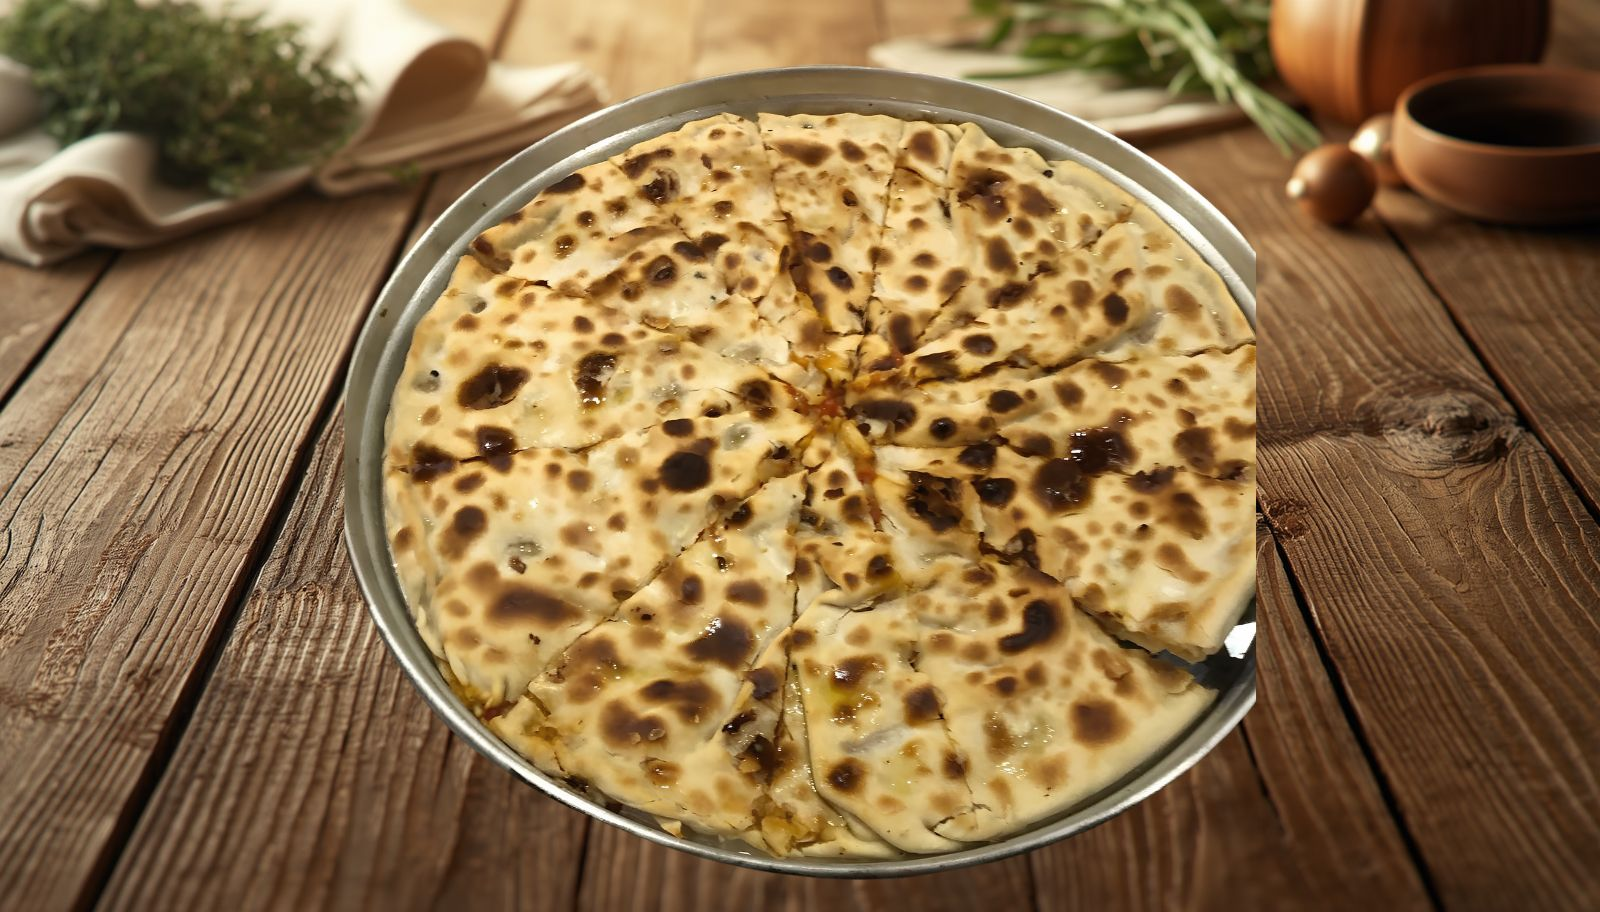
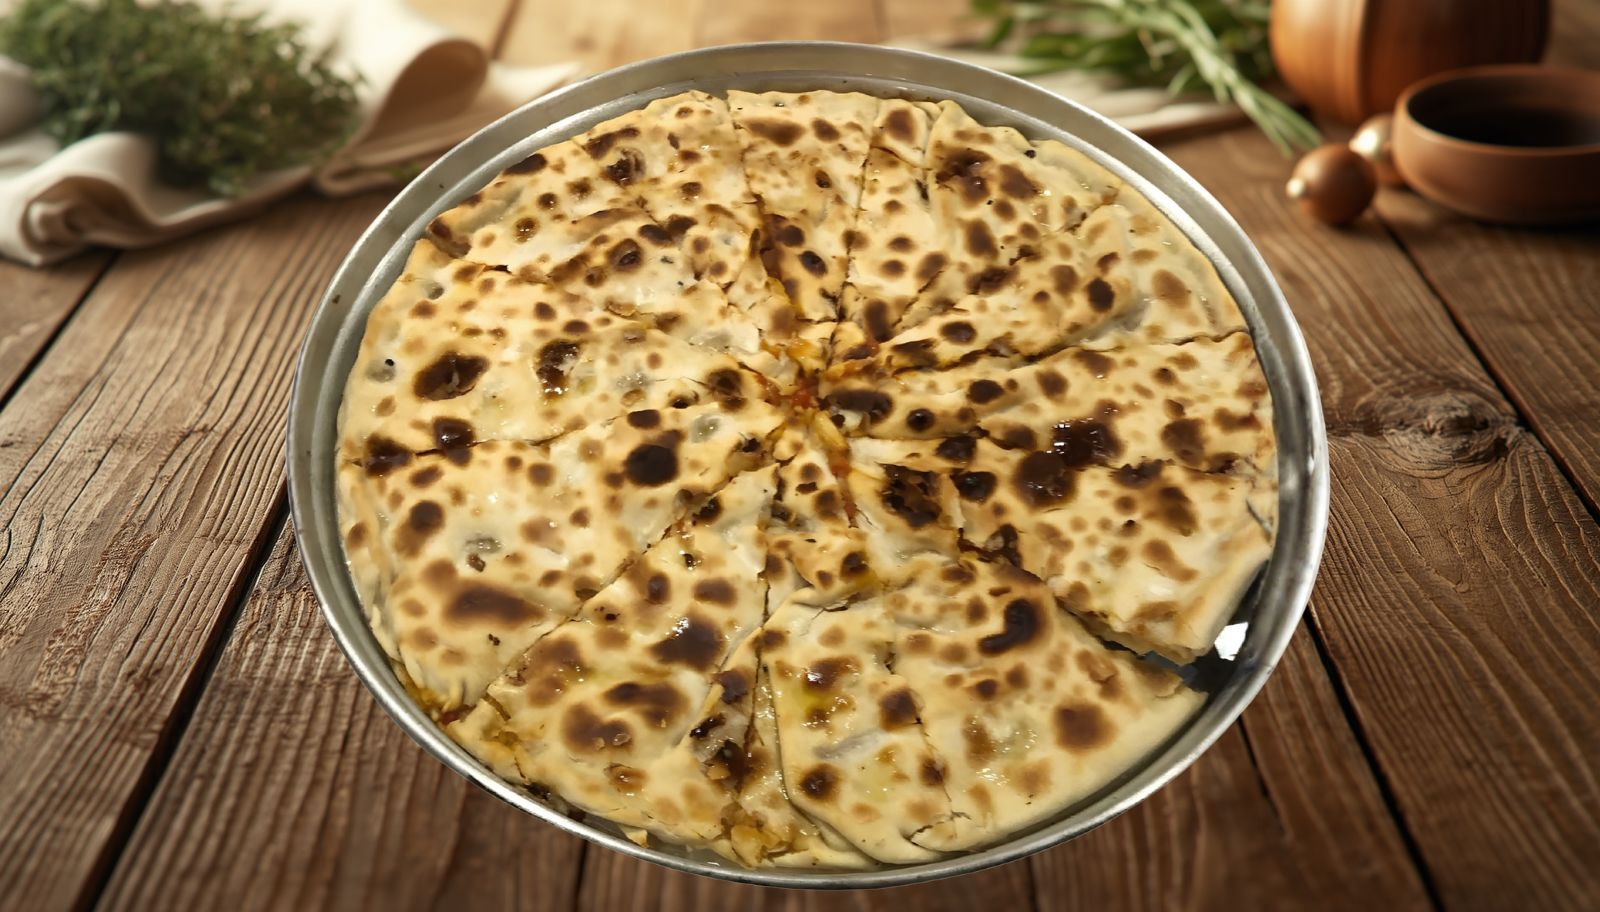
fix navbar scroll

diff --git a/menu.html b/menu.html
@@ -374,7 +374,7 @@ const categories = [
             { img: "fotot/soft drinks/bravo.jpg", price: "200 Lek", sq: { name: "Bravo", desc: "" }, en: { name: "Bravo Juice", desc: "" }, it: { name: "Succo Bravo", desc: "" } },
             { img: "fotot/soft drinks/tonic water.jpg", price: "150 Lek", sq: { name: "Tonic water", desc: "" }, en: { name: "Tonic Water", desc: "" }, it: { name: "Acqua Tonica", desc: "" } },
             { img: "fotot/soft drinks/uje.jpg", price: "100 Lek", sq: { name: "Ujë natyral", desc: "" }, en: { name: "Still Water", desc: "" }, it: { name: "Acqua Naturale", desc: "" } },
-            { img: "fotot/soft drinks/uje me gaz.jpg", price: "100 Lek", sq: { name: "Ujë me gaz", desc: "" }, en: { name: "Sparkling Water", desc: "" }, it: { name: "Acqua Frizzante", desc: "" } }
+            { img: "fotot/soft drinks/uje.jpg", price: "100 Lek", sq: { name: "Ujë me gaz", desc: "" }, en: { name: "Sparkling Water", desc: "" }, it: { name: "Acqua Frizzante", desc: "" } }
         ]
     },
     {
@@ -416,9 +416,23 @@ const categories = [
     }
 ];
 
-let currentLang = localStorage.getItem("lang") || "sq";
+/* ---------------------------------------------------------------------
+   Language persistence helpers (wrapped in try/catch so a restricted
+   preview environment can never throw and break the whole script —
+   on a normal web host this behaves exactly like plain localStorage).
+--------------------------------------------------------------------- */
+function getStoredLang() {
+    try { return localStorage.getItem("lang"); } catch (e) { return null; }
+}
+function setStoredLang(lang) {
+    try { localStorage.setItem("lang", lang); } catch (e) { /* ignore */ }
+}
+
+let currentLang = getStoredLang() || "sq";
 let observer;
-let isClickScrolling = false; 
+let isClickScrolling = false;
+let clickScrollTimeout = null;
+let scrollScheduled = false;
 
 function renderMenu() {
     const menu = document.getElementById("menu");
@@ -434,7 +448,7 @@ function renderMenu() {
         c.items.forEach(item => {
             const priceHtml = item.price.trim() !== "" ? `<div class="price">${item.price}</div>` : "";
             const descHtml = item[currentLang].desc.trim() !== "" ? `<p>${item[currentLang].desc}</p>` : "";
-            
+
             // Nëse nuk ka imazh kthejmë një tag bosh që nuk jep error falë CSS, por jep kutinë placeholder
             const imgTag = item.img.trim() !== "" 
                 ? `<img src="${item.img}" alt="${item[currentLang].name}" loading="lazy" onerror="this.style.display='none'">` 
@@ -462,54 +476,134 @@ function renderMenu() {
         </section>`;
     });
 
-    document.querySelectorAll(".cat").forEach(btn => {
-        btn.onclick = () => {
-            isClickScrolling = true; 
-            document.querySelectorAll(".cat").forEach(b => b.classList.remove("active"));
-            btn.classList.add("active");
-            
-            const section = document.getElementById(btn.dataset.id);
-            const y = section.getBoundingClientRect().top + window.scrollY - 110; 
-            window.scrollTo({ top: y, behavior: 'smooth' });
-            
-            btn.scrollIntoView({ behavior: "smooth", inline: "center", block: "nearest" });
-
-            setTimeout(() => { isClickScrolling = false; }, 800);
-        };
-    });
-
+    attachNavClickHandlers();
     initObserver();
 }
 
-function initObserver() {
-    if(observer) observer.disconnect();
+/* =======================================================================
+   NAVIGATION: smooth-scroll on click + accurate scroll-spy
+   -----------------------------------------------------------------------
+   Strategy: the "active" category is decided by a single source of truth
+   — updateActiveSection() — which looks at the real, current position
+   (getBoundingClientRect) of every section and picks the last one whose
+   top has passed just below the navbar. That decision is triggered both
+   by an IntersectionObserver (cheap, event-driven, the preferred modern
+   approach) AND by a rAF-throttled scroll listener (a tiny safety net
+   that guarantees the activation line can never be "jumped over" during
+   a very fast flick/fling, however short or tall a section is). Because
+   the decision itself is always recomputed from live geometry, neither
+   trigger can produce a wrong/missed result — they only differ in how
+   often they ask the same question.
+======================================================================= */
+
+function getNavbarHeight() {
+    const navbar = document.querySelector(".navbar");
+    return navbar ? navbar.offsetHeight : 110;
+}
+
+function setActiveButton(id) {
+    const btn = document.querySelector(`.cat[data-id="${id}"]`);
+    if (!btn || btn.classList.contains("active")) return; // no-op avoids flicker/extra scrollIntoView calls
+
+    document.querySelectorAll(".cat").forEach(b => b.classList.remove("active"));
+    btn.classList.add("active");
+
+    // Requirement 3: keep the active category visible inside the scrollable navbar
+    btn.scrollIntoView({ behavior: "smooth", inline: "center", block: "nearest" });
+}
+
+function updateActiveSection() {
+    if (isClickScrolling) return; // a click-triggered scroll is animating; don't fight it with intermediate sections
 
     const sections = document.querySelectorAll(".section");
+    if (!sections.length) return;
 
-    observer = new IntersectionObserver(entries => {
-        if(isClickScrolling) return; 
+    const activationLine = getNavbarHeight() + 1; // just below the fixed navbar
 
-        entries.forEach(e => {
-            if(e.isIntersecting) {
-                document.querySelectorAll(".cat").forEach(b => b.classList.remove("active"));
-                const btn = document.querySelector(`.cat[data-id="${e.target.id}"]`);
-                if(btn) {
-                    btn.classList.add("active");
-                    btn.scrollIntoView({ behavior: "smooth", inline: "center", block: "nearest" });
-                }
-            }
-        });
-    }, { 
-        threshold: 0.15,
-        rootMargin: "-120px 0px -40% 0px"
+    let activeId = sections[0].id; // sensible default (top of page / before any section passes the line)
+
+    sections.forEach(section => {
+        if (section.getBoundingClientRect().top <= activationLine) {
+            activeId = section.id; // last section (in document order) that has passed the line wins
+        }
+    });
+
+    setActiveButton(activeId);
+}
+
+function attachNavClickHandlers() {
+    document.querySelectorAll(".cat").forEach(btn => {
+        btn.onclick = () => {
+            const section = document.getElementById(btn.dataset.id);
+            if (!section) return;
+
+            isClickScrolling = true;
+            clearTimeout(clickScrollTimeout);
+            clickScrollTimeout = setTimeout(() => { isClickScrolling = false; }, 1000); // safety net
+
+            setActiveButton(btn.dataset.id); // highlight immediately, don't wait for the animation to finish
+
+            const y = section.getBoundingClientRect().top + window.scrollY - getNavbarHeight();
+            window.scrollTo({ top: y, behavior: "smooth" });
+        };
+    });
+}
+
+function initObserver() {
+    if (observer) observer.disconnect();
+
+    const sections = document.querySelectorAll(".section");
+    const navbarHeight = getNavbarHeight();
+
+    const thresholds = [];
+    for (let i = 0; i <= 20; i++) thresholds.push(i / 20);
+
+    observer = new IntersectionObserver(() => {
+        updateActiveSection();
+    }, {
+        rootMargin: `-${navbarHeight}px 0px 0px 0px`,
+        threshold: thresholds
     });
 
     sections.forEach(s => observer.observe(s));
+
+    // Set the correct initial highlight right away (don't wait for the first scroll/observer tick)
+    updateActiveSection();
 }
+
+// rAF-throttled scroll listener — the accuracy safety net described above
+function onWindowScroll() {
+    if (scrollScheduled) return;
+    scrollScheduled = true;
+    requestAnimationFrame(() => {
+        updateActiveSection();
+        scrollScheduled = false;
+    });
+}
+window.addEventListener("scroll", onWindowScroll, { passive: true });
+
+// Resolve the click-scroll lock as soon as the browser reports the smooth
+// scroll truly finished (supported in modern browsers); the timeout above
+// still covers browsers without 'scrollend'.
+window.addEventListener("scrollend", () => {
+    if (isClickScrolling) {
+        isClickScrolling = false;
+        clearTimeout(clickScrollTimeout);
+        updateActiveSection();
+    }
+});
+
+// Recompute navbar-height-dependent offsets if the viewport changes
+// (e.g. mobile rotation) so the system stays accurate on every device.
+let resizeTimeout;
+window.addEventListener("resize", () => {
+    clearTimeout(resizeTimeout);
+    resizeTimeout = setTimeout(initObserver, 200);
+});
 
 function changeLang(lang) {
     currentLang = lang;
-    localStorage.setItem("lang", lang);
+    setStoredLang(lang);
     const scrollPos = window.scrollY; 
     renderMenu();
     window.scrollTo(0, scrollPos);
